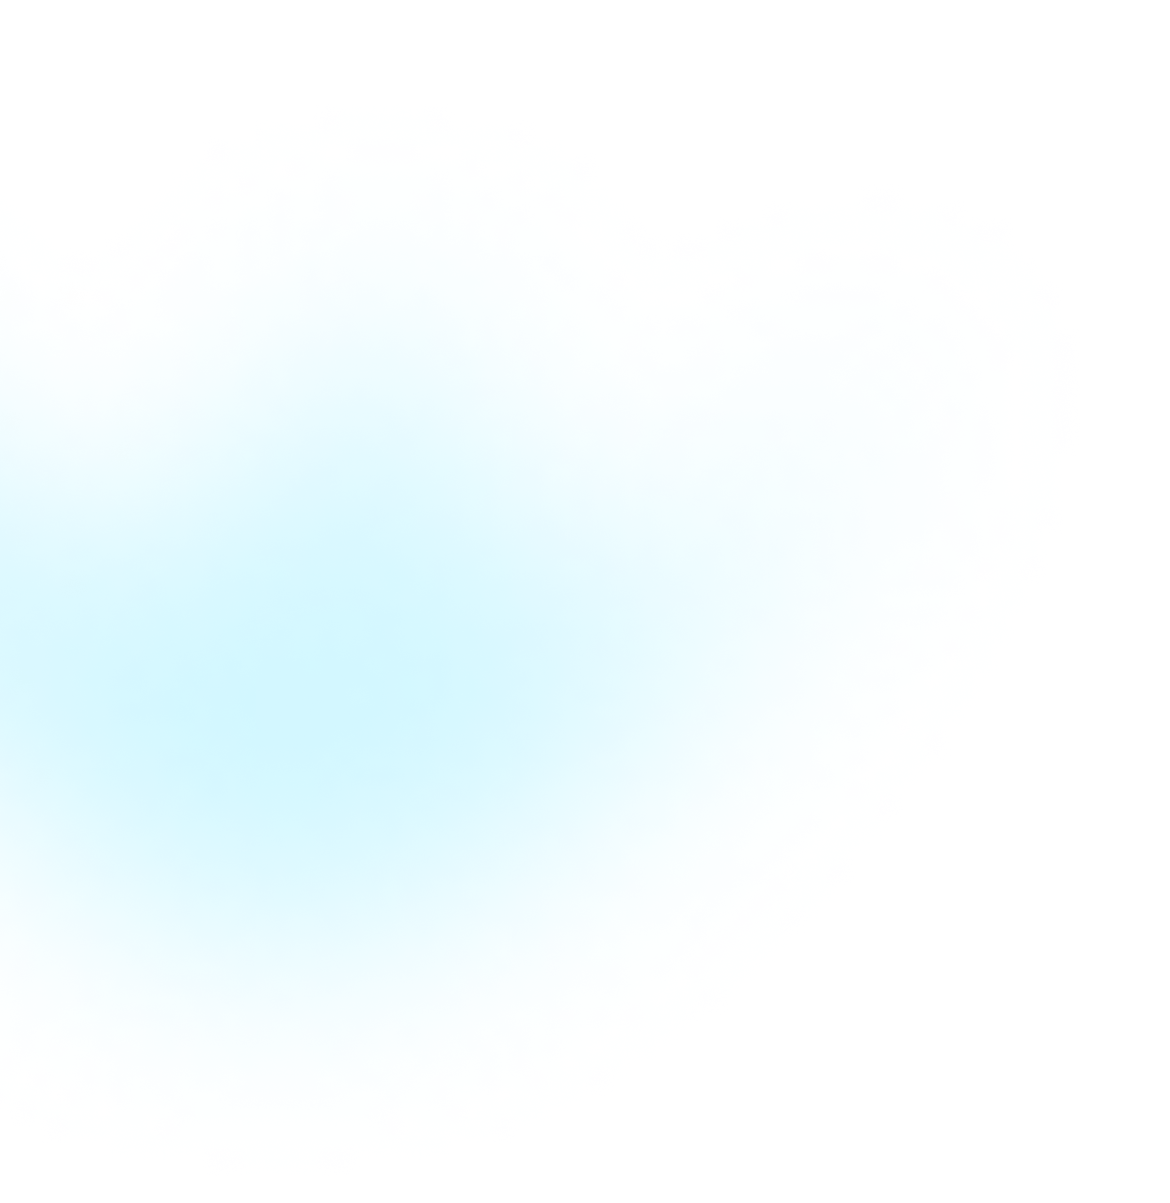
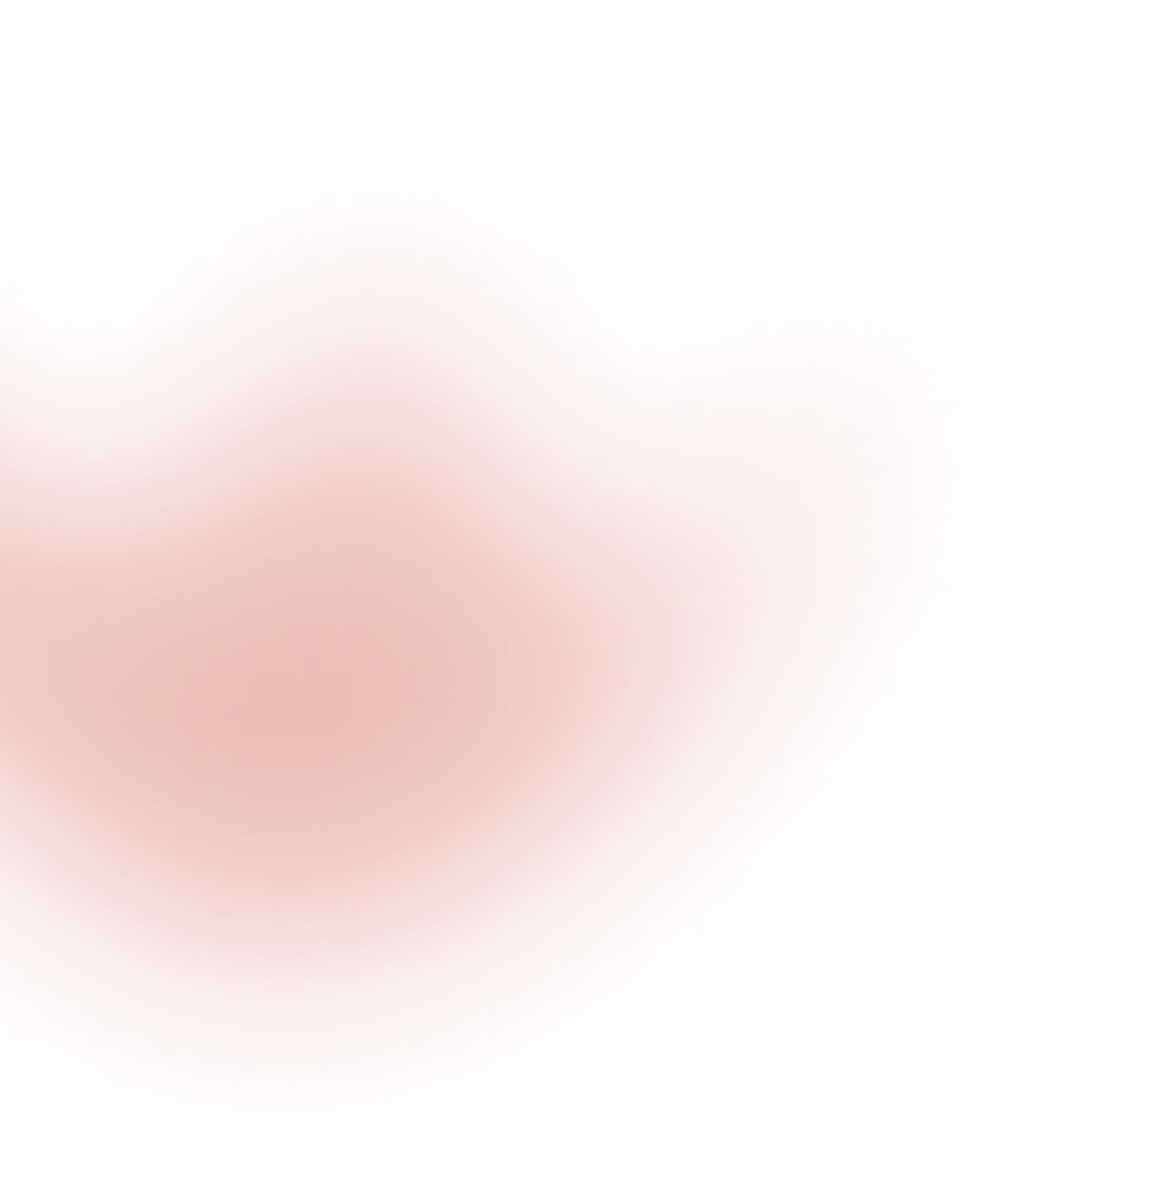
Tercer commit

Changed region(s): [[0.0, 0.2768, 0.6462, 0.8304]]

diff --git a/src/components/FirstBlock/FirstBlock.tsx b/src/components/FirstBlock/FirstBlock.tsx
@@ -8,28 +8,25 @@ import { Reveal } from "../Reveal"
 
 export function FirstBlock() {
     return (
-        <div className="relative p-4 md:py-40">
+        <div className="relative p-2 md:py-85">
             <BackgroundRadialRight />
             <div className="grid max-w-5xl mx-auto md:grid-cols-2">
                 <div>
                     <Reveal>
                         <h1 className="text-5xl font-semibold">
-                            El nuevo
+                            PokémonKingdom
                             <span className="block degradedBlue bg-blueLight">
-                                banco digital
+                                official
                             </span>
-                            para todos
+                            web
                         </h1>
                     </Reveal>
                     <Reveal>
-                        <p className="max-w-md mt-10">Nuestro equipo de expertos utiliza una metodología
-                            para identificar las tarjetas de crédito que probablemente
-                            se ajusten a sus necesidades. Examinamos tasas
-                            porcentuales anuales, tarifas anuales.</p>
+                        <p className="max-w-md mt-10">Bienvenidos a la página oficial de Pokémon Kingdom, uno de los servidores más grandes hispanos con mucha actividad y actividades para todo tipo de usuarios, desde juegos con bots hasta eventos semanales.</p>
                     </Reveal>
                     <Reveal>
                         <div className="my-8">
-                            <Link href="#clients" className="px-4 py-3 rounded-md bg-blueRadial">Empieza ahora</Link>
+                            <Link href="../../../parte.html" className="px-4 py-3 rounded-md bg-botonJoin">Únete ahora</Link>
                         </div>
                     </Reveal>
                 </div>

diff --git a/src/components/BestBusiness/BestBusiness.tsx b/src/components/BestBusiness/BestBusiness.tsx
@@ -14,20 +14,17 @@ export function BestBusiness() {
                 <div>
                     <Reveal>
                         <h2 className="text-5xl font-semibold">
-                            <span className="block degradedBlue bg-blueLight">Tú haces el negocio</span>
-                            nosotros manejamos <br />
-                            el dinero
+                            <span className="block degradedBlue bg-blueLight">Caracteristicas cuales</span>
+                            nos hacen <br />
+                            únicos
                         </h2>
                     </Reveal>
                     <Reveal>
-                        <p className="max-w-md mt-10">Con la tarjeta de crédito adecuada, puede mejorar su vida
-                            financiera generando crédito, obteniendo recompensas y
-                            ahorrando dinero. Pero con cientos de tarjetas de crédito en
-                            el mercado.</p>
+                        <p className="max-w-md mt-10">Pokémon Kingdom es más que un servidor, es una comunidad con mucho desarrollo, esfuerzo tiempo y dedicación por parte administrativa y moderativa.</p>
                     </Reveal>
                     <Reveal>
                         <div className="my-8">
-                            <Link href="#clients" className="px-4 py-3 rounded-md bg-blueRadial">Elige tu plan</Link>
+                            <Link href="#clients" className="px-4 py-3 rounded-md bg-botonJoin">Elige tu plan</Link>
                         </div>
                     </Reveal>
                 </div>

diff --git a/src/components/Testimonials/Testimonials.data.ts b/src/components/Testimonials/Testimonials.data.ts
@@ -1,16 +1,16 @@
 export const dataTestimonials = [
   {
     id: 1,
-    name: "Juan Recio",
-    work: "Founder",
-    testimonial: "Muy buena landing page SPA sobre como hacer un banco",
+    name: "Bartolomiu",
+    work: "Fundador - Dev",
+    testimonial: "Texto de ejemplo",
     image: "/assets/profile1.png",
   },
   {
     id: 2,
-    name: "Laura García",
-    work: "Founder",
-    testimonial: "Muy buena landing page SPA sobre como hacer un banco",
+    name: "OfficialCrow",
+    work: "Fundador",
+    testimonial: "Texto de ejemplo",
     image: "/assets/profile2.png",
   },
   {
@@ -36,6 +36,34 @@ export const dataTestimonials = [
   },
   {
     id: 6,
+    name: "Raúl Vidal",
+    work: "Founder",
+    testimonial: "Muy buena landing page SPA sobre como hacer un banco",
+    image: "/assets/profile3.png",
+  },
+  {
+    id: 7,
+    name: "Raúl Vidal",
+    work: "Founder",
+    testimonial: "Muy buena landing page SPA sobre como hacer un banco",
+    image: "/assets/profile3.png",
+  },
+  {
+    id: 8,
+    name: "Raúl Vidal",
+    work: "Founder",
+    testimonial: "Muy buena landing page SPA sobre como hacer un banco",
+    image: "/assets/profile3.png",
+  },
+  {
+    id: 9,
+    name: "Raúl Vidal",
+    work: "Founder",
+    testimonial: "Muy buena landing page SPA sobre como hacer un banco",
+    image: "/assets/profile3.png",
+  },
+  {
+    id: 10,
     name: "Raúl Vidal",
     work: "Founder",
     testimonial: "Muy buena landing page SPA sobre como hacer un banco",

diff --git a/src/components/BestBusiness/BestBusiness.data.ts b/src/components/BestBusiness/BestBusiness.data.ts
@@ -4,22 +4,22 @@ export const dataFeaturesBusiness: BestBusinessData = [
   {
     id: 1,
     icon: "rewards",
-    title: "Recompensas",
+    title: "Atención 24 / 7",
     description:
-      "Las mejores tarjetas de crédito ofrecen algunas combinaciones tentadoras de promociones y premios.",
+      "Tenemos staffs de diferentes países para que podáis ser atendidos en diferentes zonas horarias.",
   },
   {
     id: 2,
     icon: "safe",
-    title: "100% Seguro",
+    title: "Bots Personalizados",
     description:
-      "Tomamos medidas proactivas para asegurarnos de que su información  y sus transacciones estén seguras.",
+      "Para una experiencia personalizada, Pokémon Kingdom esta trabajando diariamente para obtener la mayor sencillez.",
   },
   {
     id: 3,
     icon: "send",
-    title: "Envíos gratis",
+    title: "Libre de toxicidad",
     description:
-      "Una tarjeta de crédito con transferencia de saldo puede ahorrarle mucho dinero en intereses.",
+      "Nuestro objetivo va a ser siempre evitar las peleas que ocurran en el servidor y tratar de solucionarlas lo antes posible",
   },
 ];

diff --git a/tailwind.config.ts b/tailwind.config.ts
@@ -10,16 +10,18 @@ const config: Config = {
     extend: {
       colors: {
         primary: "#fff",
-        primaryDark: "rgba(255,255,255, 0.7);",
-        secondary: "#6DE4E8",
+        primaryDark: "rgba(255,255,255, 0.2);",
+        secondary: "#FB6F47",
       },
       backgroundImage: {
+        botonJoin:
+          "linear-gradient(20deg, #FC2D2D 0%, rgba(249, 2, 2, 0.9) 95.83%)",
         radialBlack:
-          "linear-gradient(225.95deg, #ffffff 0%, #6d6d6d 0%, #11101d 91.61%)",
+          "linear-gradient(225.95deg, #ffffff 0%, #FB6F47 0%, #FB6F47 91.61%)",
         blueRadial:
-          "linear-gradient(90deg, #6de4e8 0%, rgba(0, 178, 218, 0.6) 95.83%)",
+          "linear-gradient(20deg, #FB6F47 0%, rgba(251, 74, 71, 0.9) 95.83%)",
         blueLight:
-          "linear-gradient(90deg, #6de4e8 0%, rgba(255, 255, 255, 0.86) 95.83% )",
+          "linear-gradient(90deg, #F73535 0%, rgba(248, 48, 48, 0.86) 100% )",
       },
       boxShadow: {
         dark: "0px 20px 100px -10px rgba(66, 71, 91, 0.1)",

diff --git a/src/components/Testimonials/Testimonials.tsx b/src/components/Testimonials/Testimonials.tsx
@@ -11,13 +11,12 @@ export function Testimonials() {
             <div className="grid max-w-5xl gap-8 mx-auto my-6 md:grid-cols-2">
                 <Reveal>
                     <h2 className="text-5xl mb-5 font-semibold">
-                        Qué dicen los clientes de nosotros
+                        Qué opinan nuestros miembros
                     </h2>
                 </Reveal>
                 <Reveal>
                     <div className="self-center">
-                        <p className="text-primaryDark">Todo lo que necesitas para aceptar pagos con tarjeta y hacer
-                            crecer tu negocio en cualquier parte del planeta.</p>
+                        <p className="text-primaryDark">Estos son algunas opiniones, si quieres enviar la tuya envia un md a @zer0dev.</p>
                     </div>
                 </Reveal>
             </div>

diff --git a/src/components/ChooseYourCards/ChooseYourCards.tsx b/src/components/ChooseYourCards/ChooseYourCards.tsx
@@ -15,8 +15,8 @@ export function ChooseYourCards() {
             <BackgroundRadialRight />
             <div className="block max-w-5xl mx-auto md:grid md:grid-cols-2">
                 <Reveal>
-                    <h2 className="text-5xl font-semibold">Elige la tarjeta que más
-                        <span className="block degradedBlue bg-blueLight">se adapta a tus necesidades</span>
+                    <h2 className="text-5xl font-semibold">Tenemos diferentes bots
+                        <span className="block degradedBlue bg-blueLight">desliza para ver lo que ofrecemos</span>
                     </h2>
                 </Reveal>
                 <div className="px-5">

diff --git a/src/components/CounterData/CounterData.data.ts b/src/components/CounterData/CounterData.data.ts
@@ -1,20 +1,20 @@
 export const dataCounter = [
   {
     id: 1,
-    startNumber: 500,
-    endNumber: 3800,
-    text: "usuarios activos",
+    startNumber: 0,
+    endNumber: 3150,
+    text: "miembros",
   },
   {
     id: 2,
-    startNumber: 0,
-    endNumber: 230,
-    text: "empleados",
+    startNumber: 700,
+    endNumber: 15,
+    text: "staffs",
   },
   {
     id: 3,
-    startNumber: 600,
-    endNumber: 1800,
-    text: "millones invertidos",
+    startNumber: 0,
+    endNumber: 400,
+    text: "comunicadores",
   },
 ];

diff --git a/src/utils/transitions.ts b/src/utils/transitions.ts
@@ -1,0 +1,26 @@
+export const fadeIn = () => {
+    return {
+      hidden: {
+        y: 80,
+        opacity: 0,
+        x: 0,
+        transition: {
+          type: "tween",
+          duration: 0.5,
+          delay: 0.5,
+          ease: [0.25, 0.6, 0.3, 0.8],
+        },
+      },
+      visible: {
+        y: 0,
+        x: 0,
+        opacity: 1,
+        transition: {
+          type: "tween",
+          duration: 1.4,
+          delay: 0.5,
+          ease: [0.25, 0.25, 0.25, 0.75],
+        },
+      },
+    };
+  };

diff --git a/src/components/CtaDark/CtaDark.tsx b/src/components/CtaDark/CtaDark.tsx
@@ -16,7 +16,7 @@ export function CtaDark() {
                         </Reveal>
                     </div>
 
-                    <Link href="#" className="px-4 py-3 mx-auto rounded-md bg-blueRadial">
+                    <Link href="#" className="px-4 py-3 mx-auto rounded-md bg-botonJoin">
                         <Reveal>
                             Empieza ahora
                         </Reveal>

diff --git a/src/app/layout.tsx b/src/app/layout.tsx
@@ -5,8 +5,8 @@ import { Poppins } from 'next/font/google'
 const popinsFont = Poppins({ weight: ['400', '600', '700'], subsets: ['latin'] })
 
 export const metadata: Metadata = {
-  title: 'Bank Website | TarreDev 💸 ',
-  description: 'Follow me for more!',
+  title: 'PokémonKingdom',
+  description: 'Importante!',
 }
 
 export default function RootLayout({

diff --git a/src/app/globals.css b/src/app/globals.css
@@ -12,7 +12,7 @@ body {
 }
 
 ::selection {
-  background: #6de4e8;
+  background: #f84741;
 }
 
 .degradedBlue {
@@ -27,7 +27,7 @@ body {
 }
 
 .swiper-pagination-bullet-active {
-  background: rgba(0, 178, 218, 0.6) !important;
+  background: rgb(255, 62, 62) !important;
 }
 
 .slider-horizontal {
